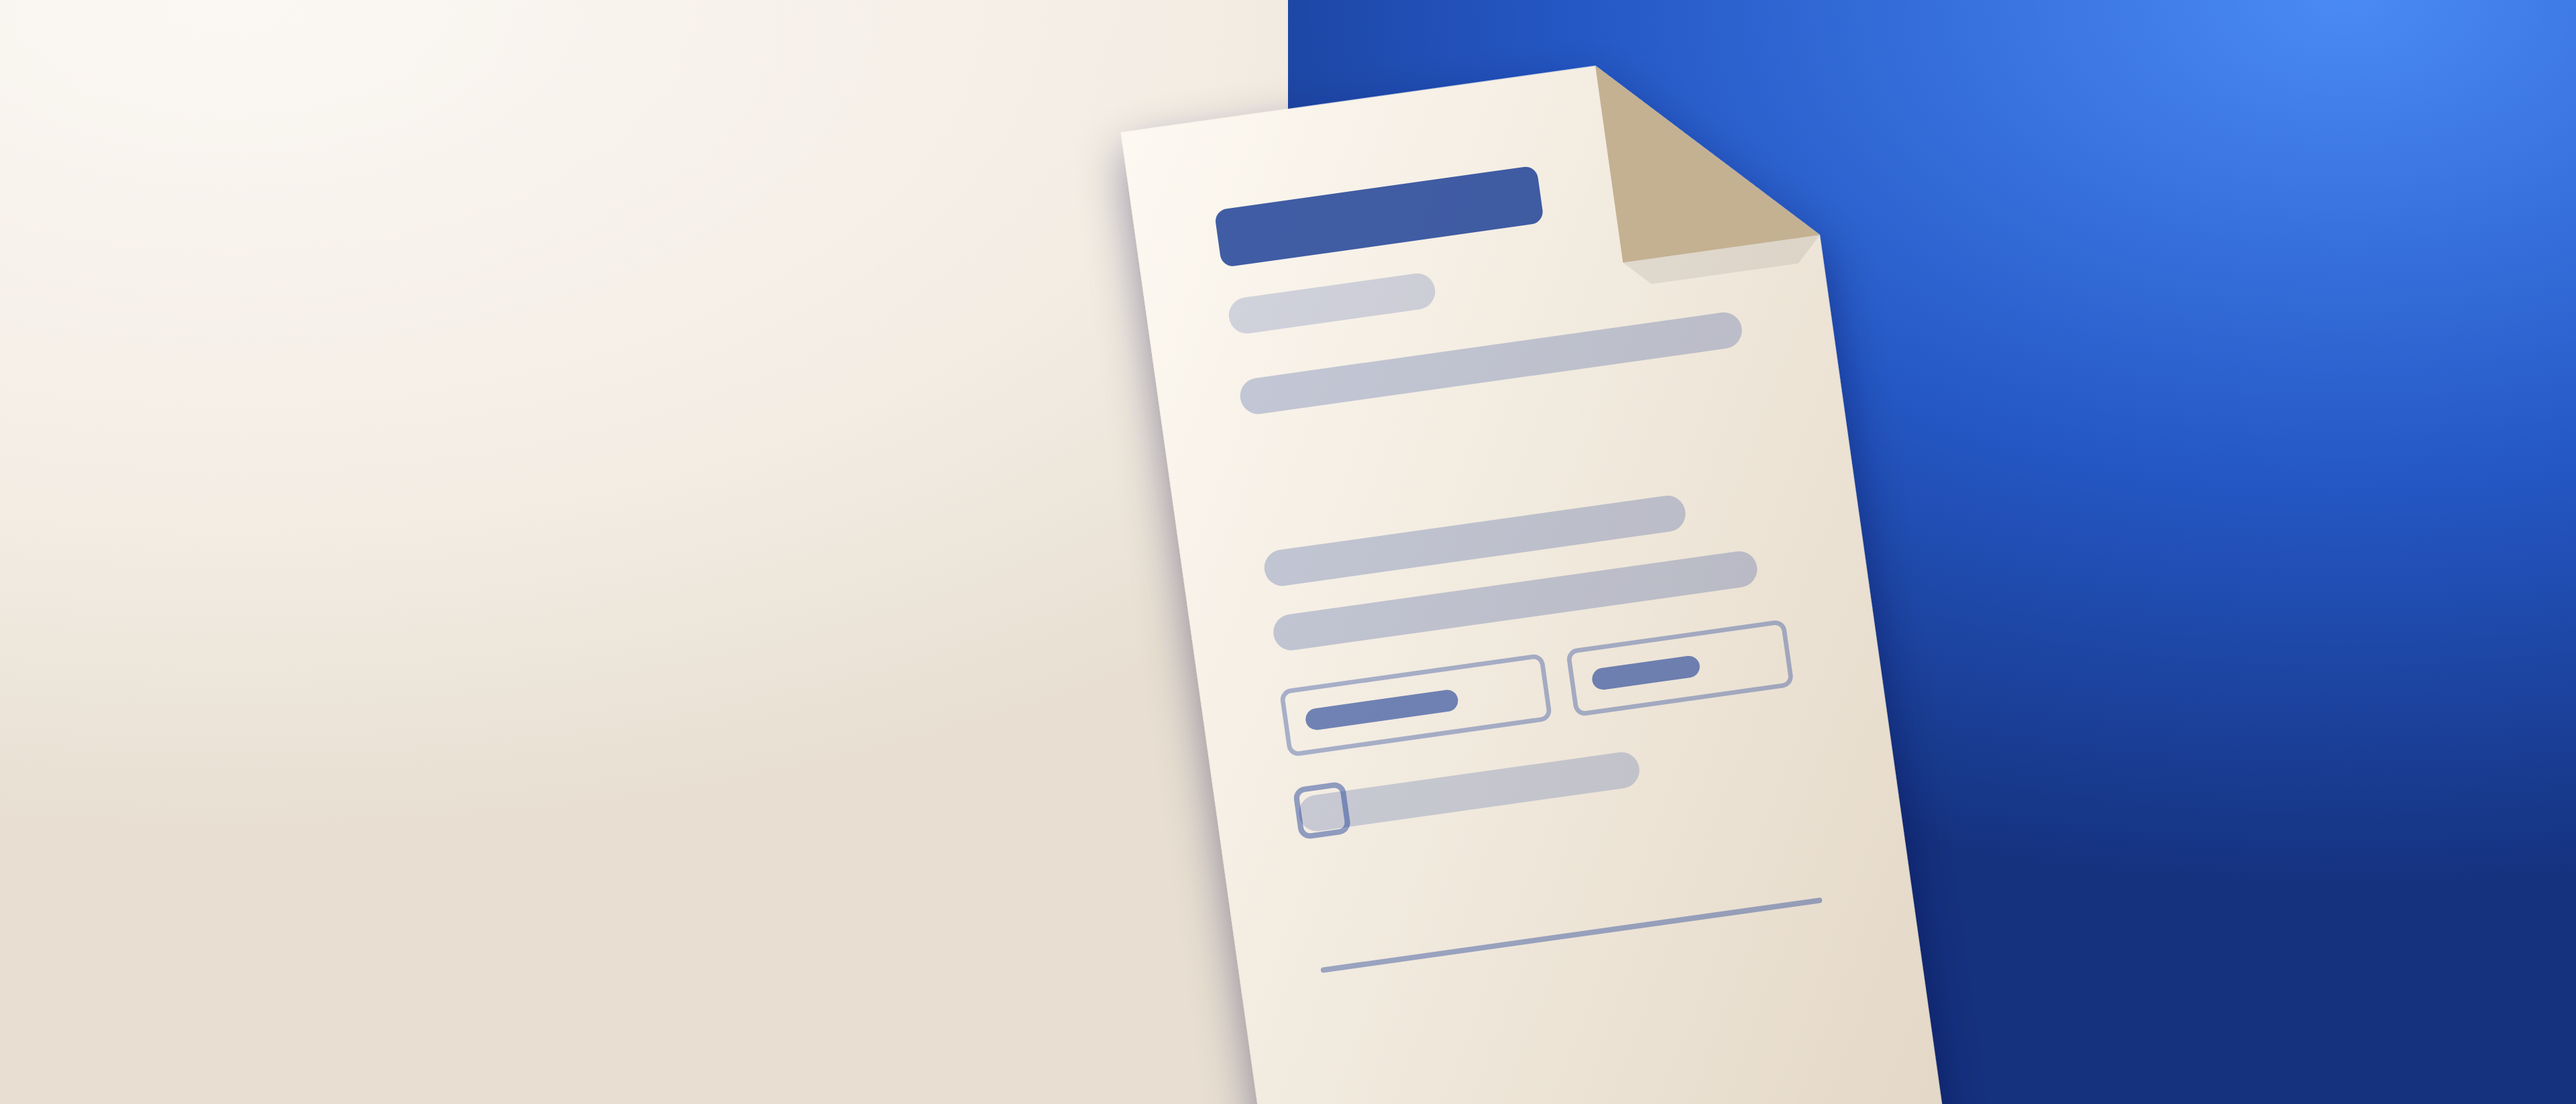
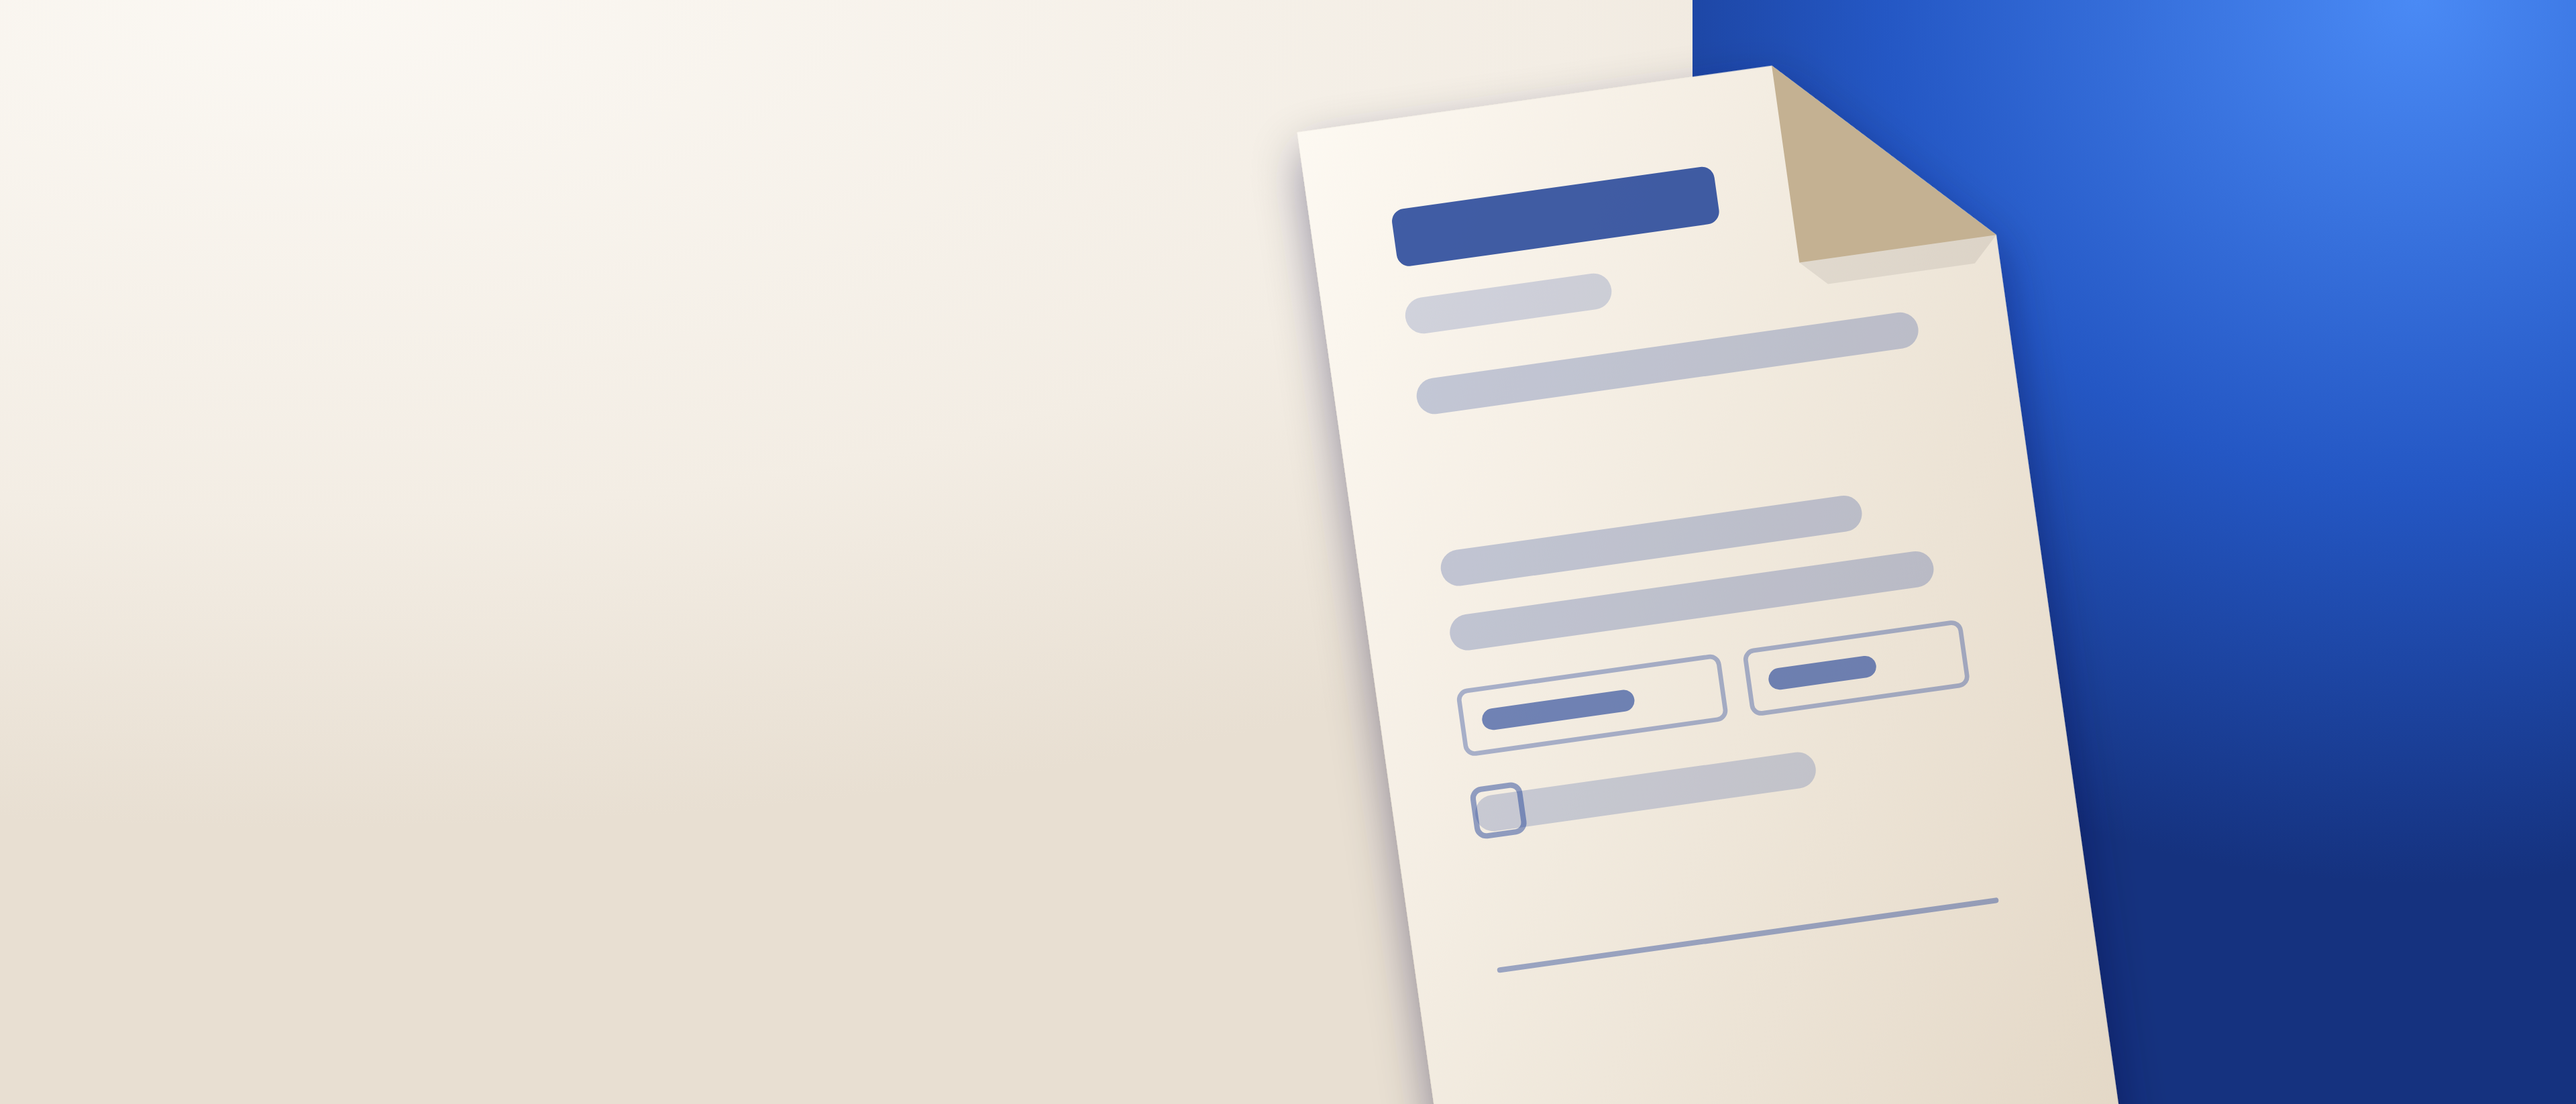
Store header: page back on the join; laptop and phone at true scale on one baseline

Changed region(s): [[0.4375, 0.0, 0.8438, 1.0], [0.4062, 0.1549, 0.4375, 0.2169]]

diff --git a/store-assets/store.css b/store-assets/store.css
@@ -7,3 +7,4 @@
 .pdf-blue { background: radial-gradient(110% 80% at 82% 0%, #4a8af5 0%, #2457c4 55%, #15327f 100%); }
 .pdf-page-wrap { position: absolute; z-index: 1; }
 .pdf-page { width: 100%; height: 100%; display: block; overflow: visible; }
+.pdf-floor { z-index: 2; background: radial-gradient(closest-side, rgba(25, 18, 10, .38), rgba(25, 18, 10, 0)); }
